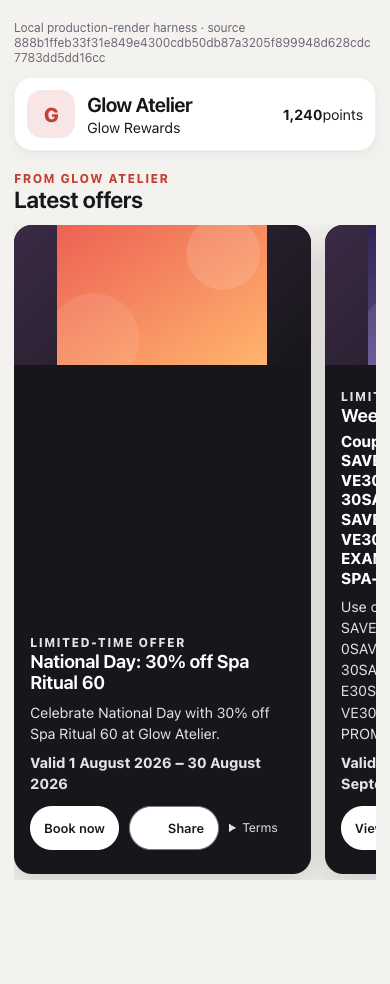
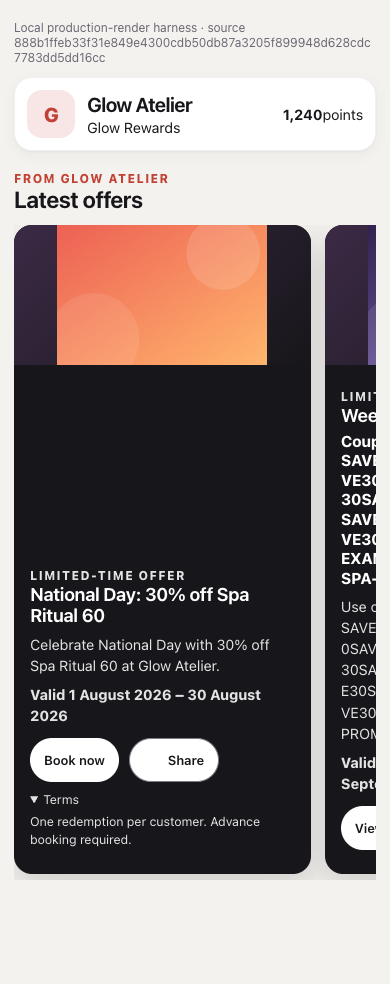
fix(qa): v328 — recapture v104 evidence, fixing a capture-tooling bug
tests/grow/v104-promotion-visual-fixture.test.mjs failed on main because the
committed metrics/screenshots (from 5c01f5c) were captured through a static
server whose clean-URL redirect (.html -> extensionless) dropped the
?openTerms/?openModal query string on its 301, so the Terms-disclosure and
modal-open captures silently never fired (details.open stuck false, modal
stuck null). Not a production bug: the v326 side-by-side mobile card layout
this suite guards was already correct before and after. Recaptured through a
server that serves the .html path directly with no redirect; source hash and
card geometry are unchanged.

Changed region(s): [[0.0615, 0.5793, 0.7077, 0.8841]]

diff --git a/docs/qa/evidence/V104-PROMOTION-VISUAL-ACCEPTANCE.md b/docs/qa/evidence/V104-PROMOTION-VISUAL-ACCEPTANCE.md
@@ -133,6 +133,43 @@ Card heights are unchanged from the v192 figures above (625px desktop,
 452/587px at 390, 385/689px at 412) — this release did not touch the promotion
 card, and the re-capture proves it.
 
+## v328 re-capture (2026-08-15) — fixed a capture-tooling bug, not a production bug
+
+`tests/grow/v104-promotion-visual-fixture.test.mjs` was failing on `main` at the
+`firstTerms.open===true` assertion (mobile390 card 0's Terms disclosure). The
+committed `mobile390`/`mobile412` `details.open` values were `false` and
+`desktop1440.modal` was `null`, so the query-string-driven Terms/modal captures
+had silently never fired.
+
+Root cause: whichever static server produced the metrics committed in `5c01f5c`
+served `/tests/browser/v104-promotions-visual.html?openTerms=0` through a
+clean-URL redirect (`.html` → extensionless) that **dropped the query string**
+on the 301. `verify-v104-promotions-visual.mjs` followed the redirect, loaded
+the fixture with no `openTerms`/`openModal` params, and captured the
+always-closed/no-modal state — a harness artifact, not a change in
+`customerPromotionCardV104` or its CSS. Confirmed by recapturing through a
+server that serves the `.html` path directly (no redirect): `details.open` and
+`modal` come back correct and match the source's actual behaviour.
+
+The v326 owner requirement this suite guards — offer cards side by side on
+phone widths — was **already correctly implemented**; `capture.cards[1].rect`
+vs `capture.cards[0].rect` passed before and after this recapture. Only the
+Terms-disclosure and modal-open metrics (and their PNGs) were wrong.
+
+Recaptured `v104-promotions-production-render-metrics.json` and all three PNGs
+from the current production source (hash unchanged,
[1 lines of base64/hex data omitted]
+
+```text
+node --test tests/grow/v104-promotion-visual-fixture.test.mjs
+4 tests, 4 passed, 0 failed
+```
+
+`npm run validate` run in full afterward: 3064/3065, the one failure being the
+known env-bound `tests/mobile/v131-store-publication-readiness.test.mjs` check
+(missing `node_modules/@capacitor` privacy manifests in this worktree),
+unrelated to this change.
+
 ## Still pending
 
 - authenticated owner image upload, draft, publish and unpublish against the
